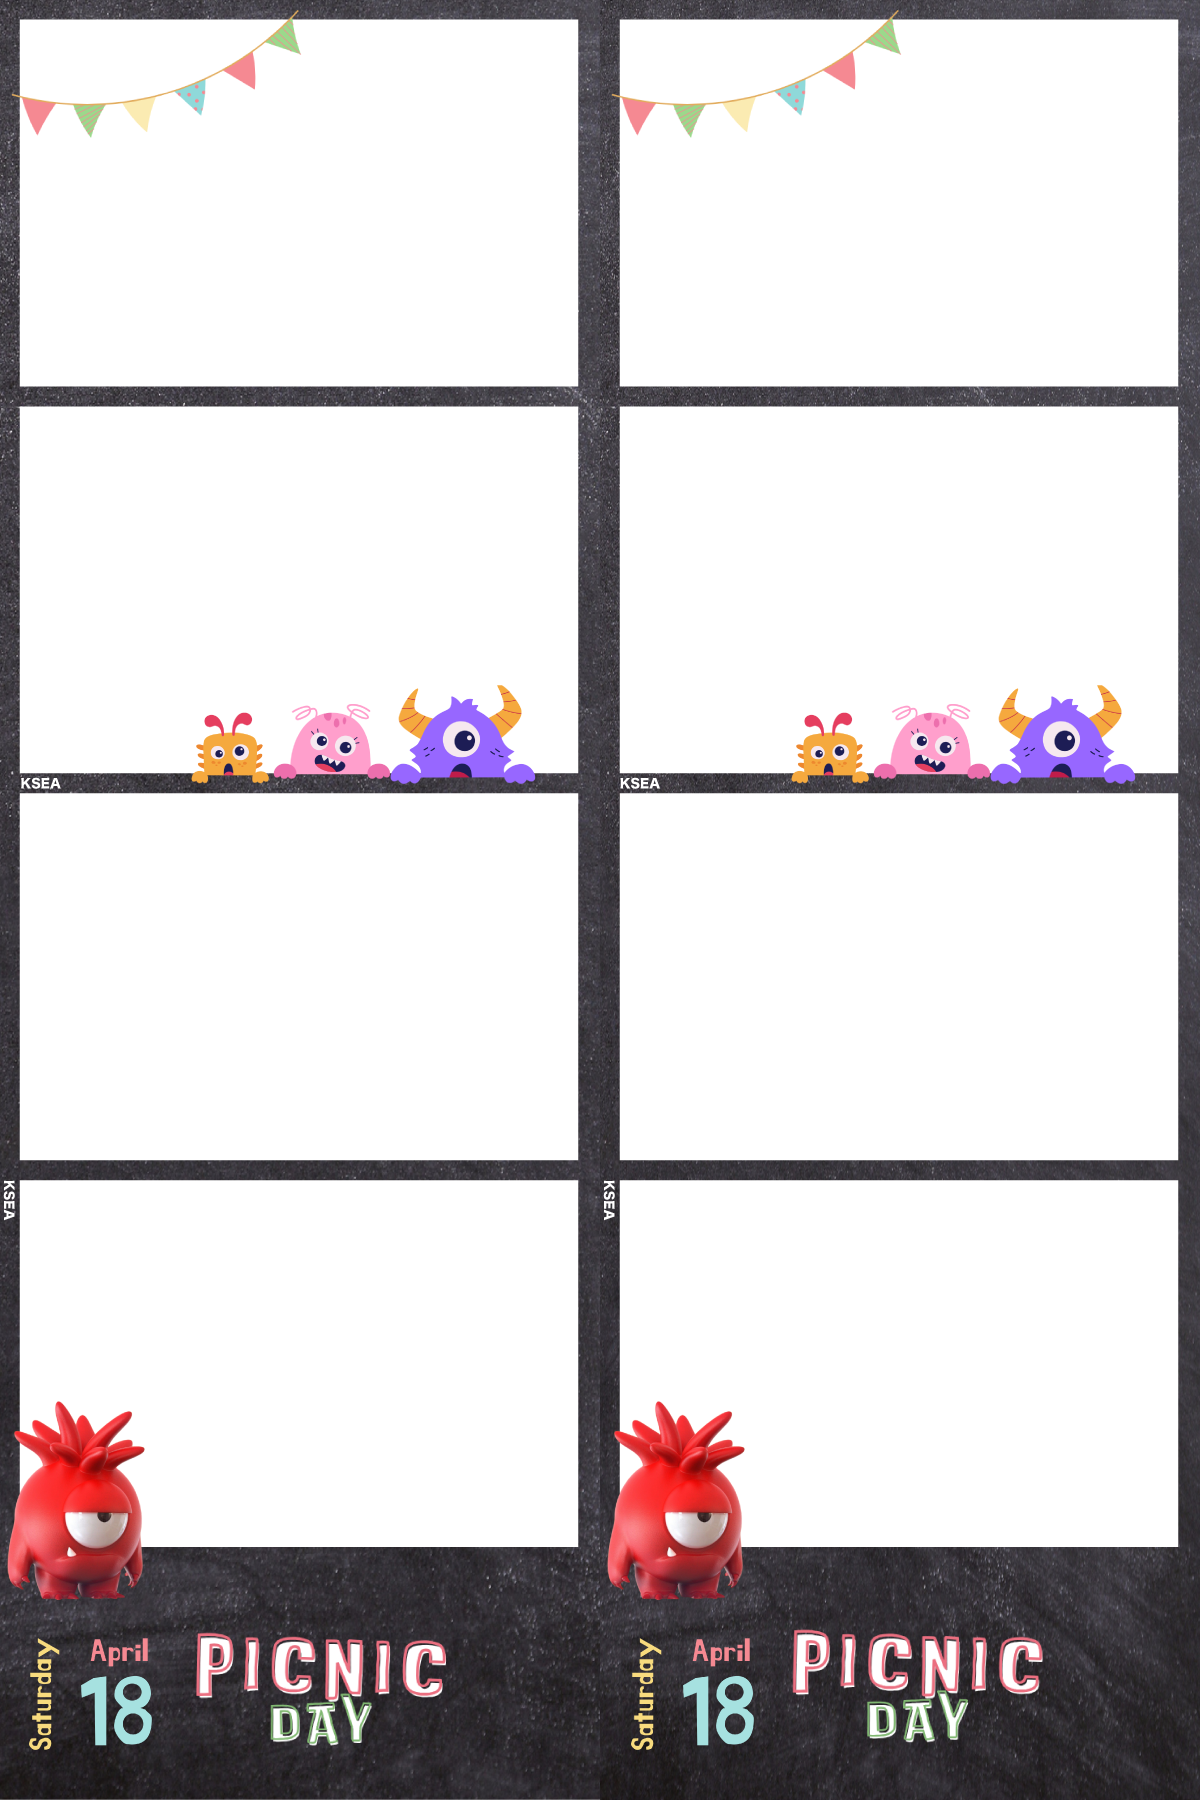
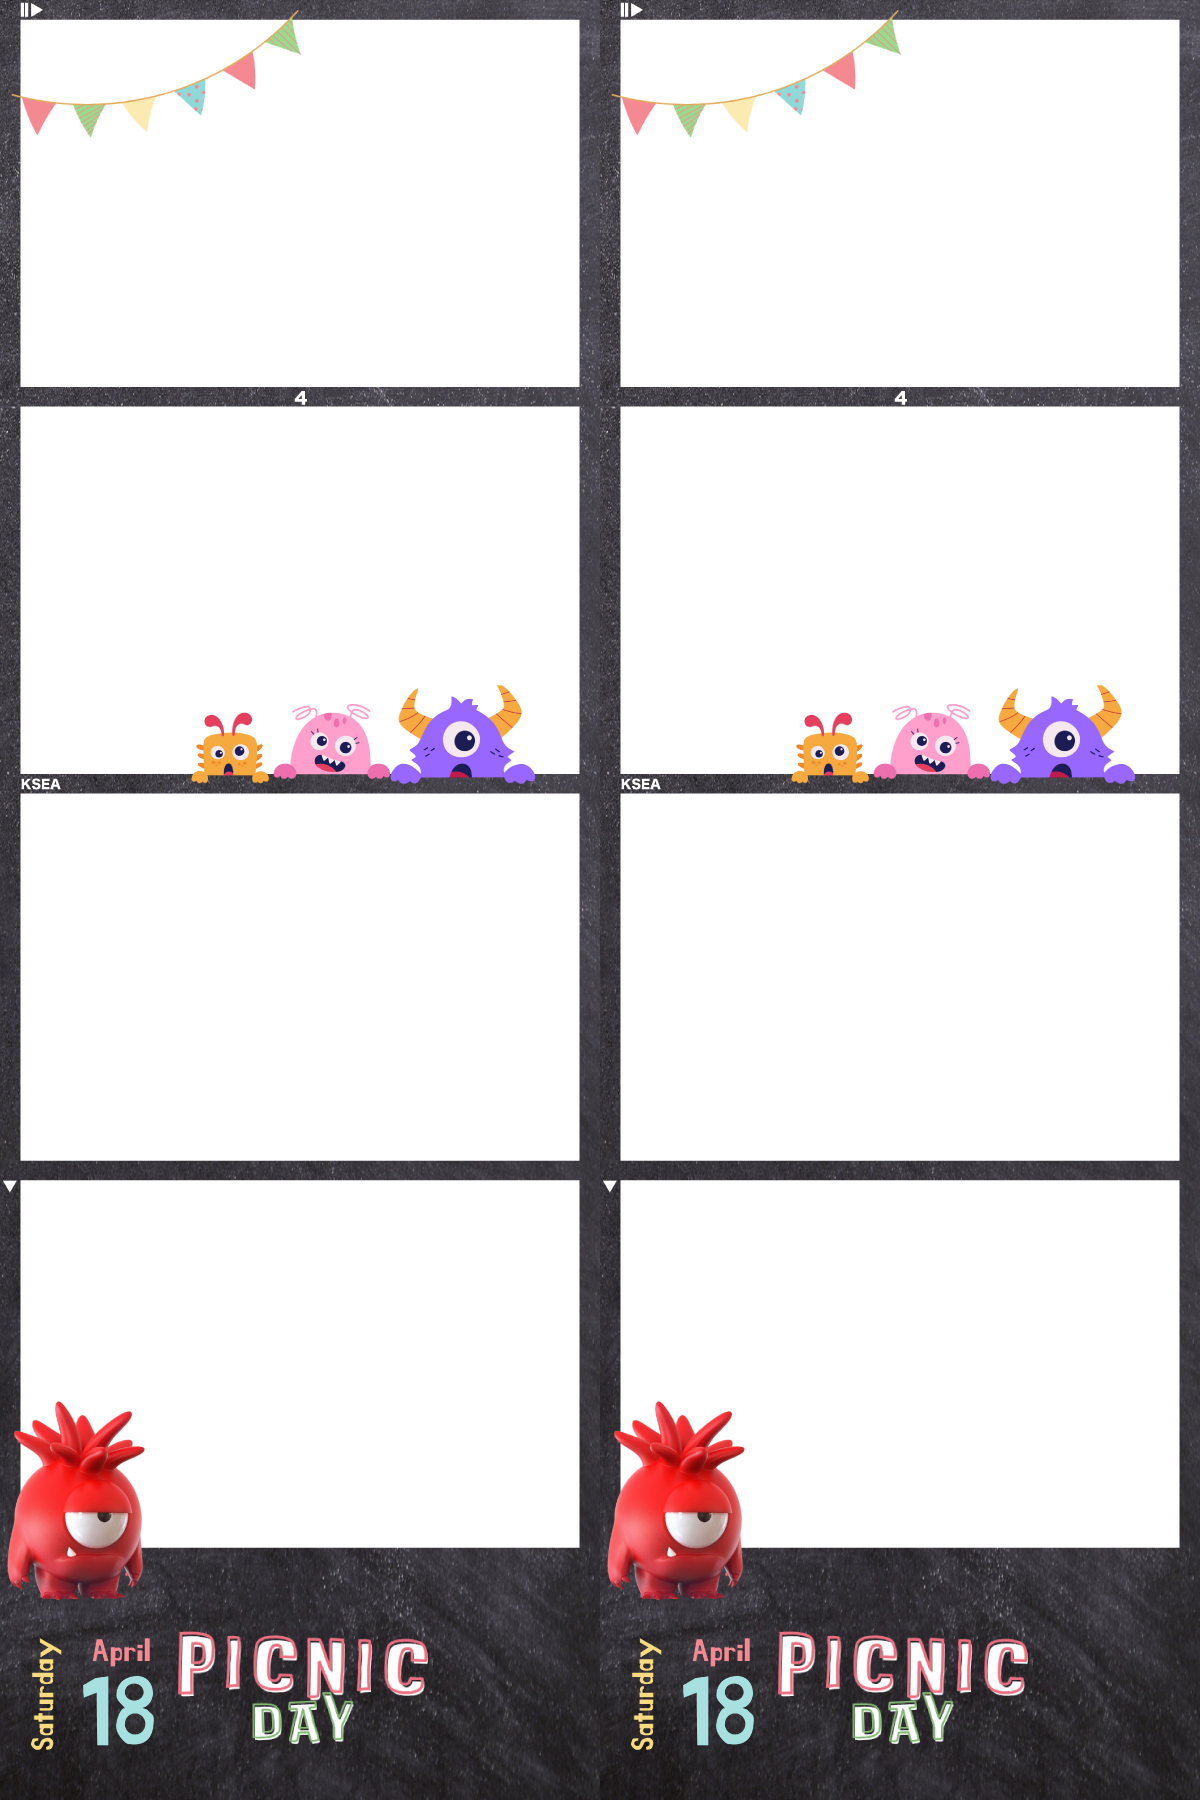
다 됐는데 가장자리가 계속 잘린다...

diff --git a/app/server.py b/app/server.py
@@ -45,6 +45,8 @@ last_error = ""
 print_queue = queue.Queue()
 shutdown_event = threading.Event()
 
+last_print_time = 0 
+
 # ---------------- CONFIG ----------------
 
 CAMERA_INDEX = 0
@@ -88,7 +90,7 @@ def clear_error() -> None:
     with state_lock:
         last_error = ""
 
-def cleanup_old_temp_files(max_age_hours: int = 12) -> None:
+def cleanup_old_temp_files(max_age_hours: int = 3) -> None:
     now = time.time()
     for f in OUTPUT_DIR.glob("*"):
         if not f.is_file():
@@ -118,20 +120,15 @@ def safe_unlink(path: Path) -> None:
         pass
 
 def fit(img, w, h):
-    img_ratio = img.width / img.height
-    target_ratio = w / h
+    scale = max(w / img.width, h / img.height)  # 🔥 다시 max
 
-    if img_ratio > target_ratio:
-        new_height = h
-        new_width = round(h * img_ratio)
-    else:
-        new_width = w
-        new_height = round(w / img_ratio)
+    new_w = int(img.width * scale)
+    new_h = int(img.height * scale)
 
-    img = img.resize((new_width, new_height), Image.Resampling.LANCZOS)
+    img = img.resize((new_w, new_h), Image.Resampling.LANCZOS)
 
-    left = (new_width - w) // 2
-    top = (new_height - h) // 2
+    left = (new_w - w) // 2
+    top = (new_h - h) // 2
 
     return img.crop((left, top, left + w, top + h))
 
@@ -219,9 +216,7 @@ def camera_loop():
             camera_ok = True
 
             h, w, _ = frame.shape
-            left = int(w * 0.125)
-            right = int(w * 0.875)
-            cropped = frame[:, left:right]
+            cropped = frame 
 
             latest_frame = cropped.copy()
             latest_frame_ts = time.time()
@@ -249,18 +244,22 @@ def printer_worker():
         path, copies_to_print = job
 
         try:
-            mapping = {
-                2: 4,
-                4: 6,
-                6: 8,
-                8: 10
-            }
+            subprocess.run(["cancel", "-a"], timeout=5)
+        except Exception:
+            pass
 
-            real_prints = mapping.get(copies_to_print, 4)
+        try:
+            real_prints = copies_to_print // 2
+
+            if real_prints <= 0:
+                continue
 
             for _ in range(real_prints):
+                subprocess.run(["cancel", "-a"], timeout=5)
+
+                # 🔥 핵심 수정 (fit-to-page 제거)
                 result = subprocess.run(
-                    ["lp", str(path)],
+                    ["lp", "-o", "media=4x6", "-o", "fit-to-page", "-o", "page-border=none", str(path)],
                     capture_output=True,
                     text=True,
                     timeout=30
@@ -270,6 +269,9 @@ def printer_worker():
                     set_error(f"Print failed: {result.stderr.strip()}")
                 else:
                     log(f"Printed: {path}")
+
+                time.sleep(1)
+
         except subprocess.TimeoutExpired:
             set_error("Print timeout")
         except Exception as e:
@@ -400,6 +402,12 @@ def status():
 
 @app.route("/print_extra", methods=["POST"])
 def print_extra():
+    global last_print_time
+
+    now = time.time()
+    if now - last_print_time < 3:   # ⭐ 2초 쿨타임
+        return jsonify({"ok": False, "error": "Too fast"}), 429
+
     global latest_result
     data = request.get_json(silent=True) or {}
     try:
@@ -410,7 +418,22 @@ def print_extra():
     if latest_result is None or not Path(latest_result).exists():
         return jsonify({"ok": False, "error": "No image found"}), 400
 
+    while not print_queue.empty():
+        try:
+            print_queue.get_nowait()
+            print_queue.task_done()
+        except:
+            break
+
+    if current_session_id is None or latest_result is None:
+        return jsonify({"ok": False, "error": "No active session"}), 400
+
+    # ⭐ 세션 ID 검증 (파일 이름 기반)
+    if str(current_session_id) not in str(latest_result):
+        return jsonify({"ok": False, "error": "Session mismatch"}), 403
+
     print_queue.put((Path(latest_result), extra_copies))
+    last_print_time = now
     return jsonify({"ok": True})
 
 # ---------------- CAPTURE ----------------
@@ -438,13 +461,17 @@ def compose(session_id: str, selected_frame_name: str, shot_paths: list[Path], c
         lx, ly, lw, lh = SLOTS[i * 2]
         rx, ry, rw, rh = SLOTS[i * 2 + 1]
 
-        left_img = fit(img, lw, lh)
-        right_img = fit(img, rw, rh)
+        bleed_x = 0
+        bleed_top = 0
 
-        canvas.paste(left_img, (lx, ly))
-        canvas.paste(right_img, (rx, ry))
+        left_img = fit(img, lw + bleed_x, lh + bleed_top)
+        right_img = fit(img, rw + bleed_x, rh + bleed_top)
+
+        canvas.paste(left_img, (lx, ly - bleed_top))
+        canvas.paste(right_img, (rx, ry - bleed_top))
 
     final_img = Image.alpha_composite(canvas, frame_overlay)
+
 
     out_path = OUTPUT_DIR / f"result_{session_id}.jpg"
     final_img.convert("RGB").save(out_path, quality=95)
@@ -452,11 +479,11 @@ def compose(session_id: str, selected_frame_name: str, shot_paths: list[Path], c
     latest_result = out_path
     log(f"Saved result: {out_path.name}")
 
-    print_queue.put((out_path, copy_count))
     return out_path
 
 def capture_sequence(session_id: str, frame_name: str, copy_count: int):
     global shots, countdown, shot_count, capture_done, capture_running, current_session_id
+    
 
     local_shots: list[Path] = []
 
@@ -473,8 +500,7 @@ def capture_sequence(session_id: str, frame_name: str, copy_count: int):
 
         for old_shot in OUTPUT_DIR.glob("shot_*.jpg"):
             try:
-                if time.time() - old_shot.stat().st_mtime > 6 * 3600:
-                    old_shot.unlink(missing_ok=True)
+                old_shot.unlink(missing_ok=True)
             except Exception:
                 pass
 
@@ -508,6 +534,15 @@ def capture_sequence(session_id: str, frame_name: str, copy_count: int):
             time.sleep(SHOT_DELAY_SECONDS)
 
         compose(session_id, frame_name, local_shots, copy_count)
+
+        while not print_queue.empty():
+            try:
+                print_queue.get_nowait()
+                print_queue.task_done()
+            except:
+                break
+
+        print_queue.put((Path(latest_result), copy_count))
 
         with state_lock:
             capture_done = True
@@ -544,8 +579,12 @@ def start_capture():
     return jsonify({"ok": True, "session_id": session_id})
 
 # ---------------- STARTUP ----------------
-
 def startup_cleanup():
+    global latest_result, current_session_id
+
+    latest_result = None
+    current_session_id = None
+
     cleanup_old_temp_files()
     clear_error()
 
@@ -554,12 +593,13 @@ def startup_cleanup():
     except Exception:
         pass
 
+
 if __name__ == "__main__":
+    print("🔥 SERVER STARTING")
     startup_cleanup()
 
     threading.Thread(target=camera_loop, daemon=True).start()
     threading.Thread(target=printer_worker, daemon=True).start()
 
-    # 현장용 로컬 키오스크면 이 정도로 충분하지만,
-    # 더 보수적으로 가려면 waitress/gunicorn 같은 WSGI로 교체 가능
     app.run(host="0.0.0.0", port=5050, threaded=True)
+
